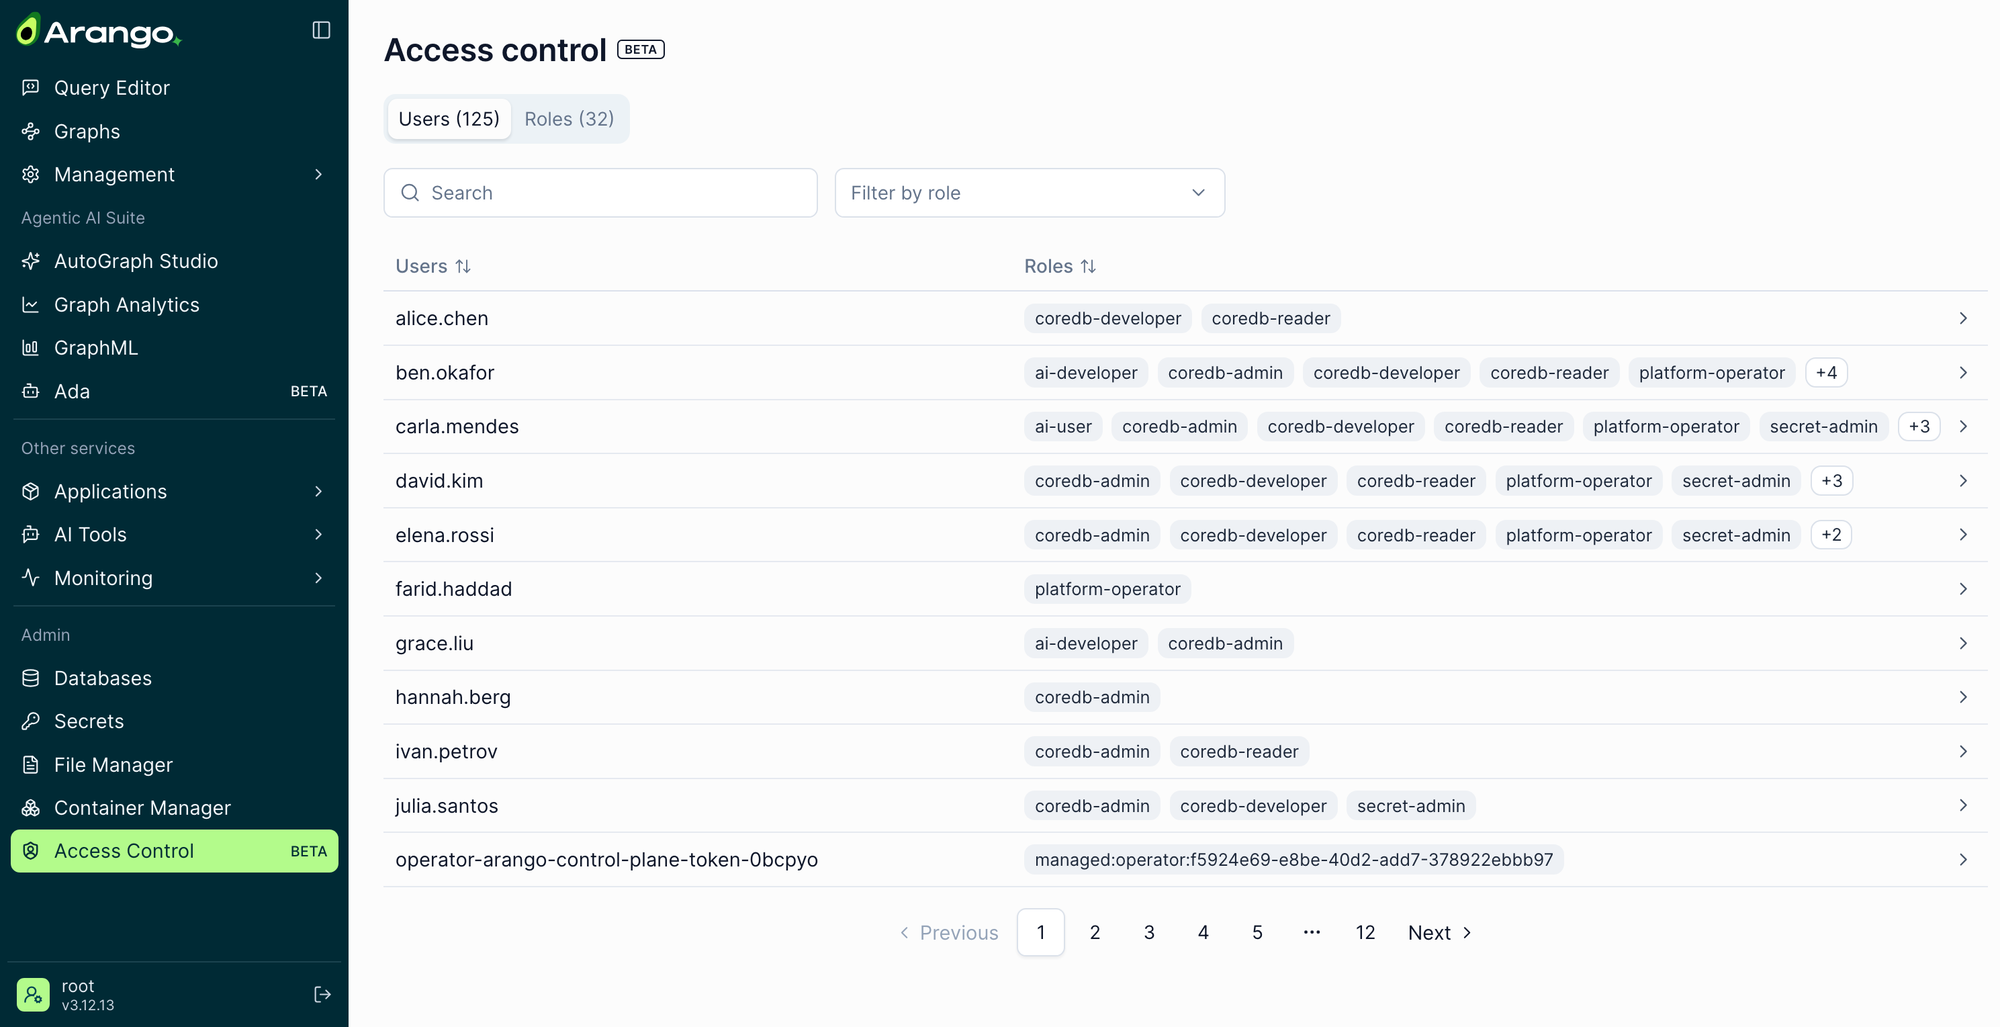
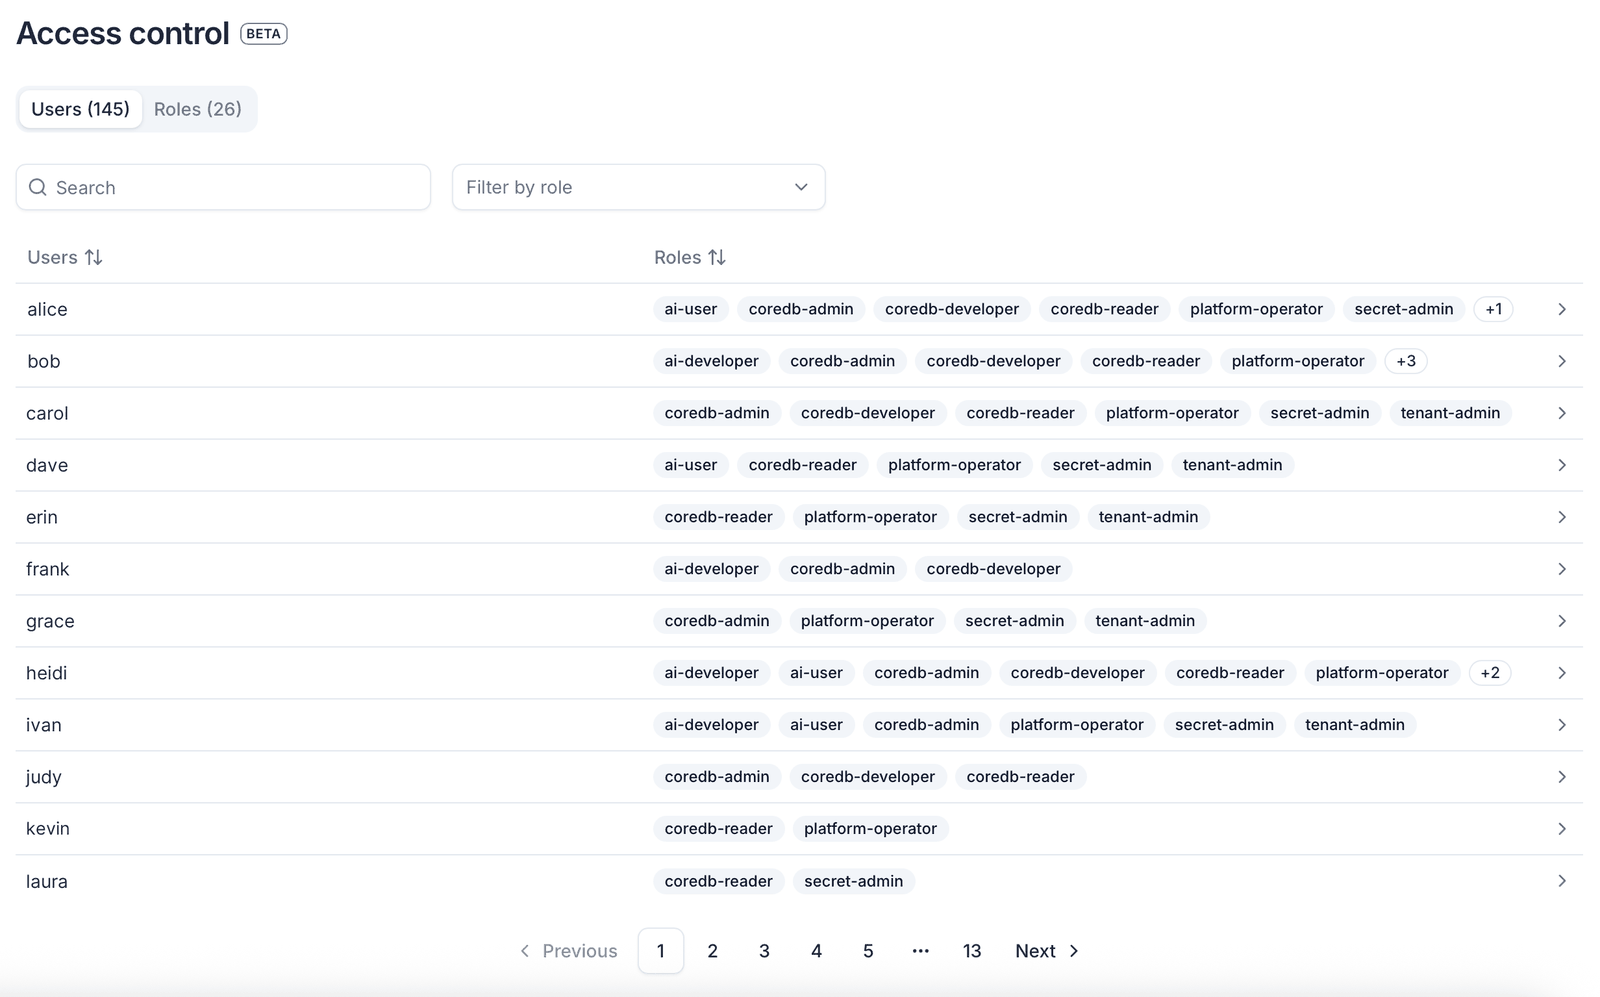
Update RBAC web interface docs and screenshots from the live UI
Replace the mockup screenshots with ones from the running web interface,
add images for the role editor, custom scopes, and the Discard changes
prompt, and align the text with the UI: custom (read-only) scopes,
super-admin and operator roles, role panel details, validation errors,
and the delete confirmation.

diff --git a/site/content/contextual-data-platform/access-control/rbac.md b/site/content/contextual-data-platform/access-control/rbac.md
@@ -403,7 +403,7 @@ that user as chips:
 ![The Users tab of the Access control page listing users with their roles as chips, a search field, a role filter, and page controls](../../images/rbac-ui-users-tab.png)
 
 - A user with no roles shows a hyphen (`-`).
-- The `root` user shows the reserved `super-admin` role.
+- The `root` user shows the reserved `super-admin` role as a single chip.
 - If not all chips fit, the row shows as many as it can, followed by a chip
   with the number of remaining roles, for example `+3`. Hover over this chip
   to see the remaining roles.
@@ -421,9 +421,11 @@ The panel is headed by the user name and an **Assign role** button. Below a
 **Search** field for role names, it lists one card per assigned role. Each card
 has a pencil icon that opens the role for editing, and a chevron that expands
 the card to show the scope of the assignment, grouped by resource type and
-database, or `Everything` if the assignment is not narrowed.
+database, `Everything` if the assignment is not narrowed, or `Custom scope` if
+the scope was set outside the web interface. See
+[Custom scopes](#custom-scopes).
 
-![The details panel of a user with an Assign role button, a field for searching roles, and one card per role with a pencil icon and a chevron](../../images/rbac-ui-user-panel.png)
+![The details panel of the user alice with an Assign role button, a field for searching roles, and one card per role with a pencil icon and a chevron, the ai-user card expanded to show Custom scope](../../images/rbac-ui-user-panel.png)
 
 If the user has no roles yet, the panel shows an empty state instead, headed
 *No roles assigned to this user*. It points out that the user has no access
@@ -477,7 +479,7 @@ The steps are the same for every role. Only the scope differs, see
 2. Select **Assign role**. The **Assign role to `<user>`** dialog opens. Its
    field already contains the roles the user holds.
 
-   ![The Assign role dialog with the roles that the user already holds in the role field, and the Cancel and Assign role buttons](../../images/rbac-ui-assign-role-dialog.png)
+   ![The Assign role to alice dialog with the roles that the user already holds in the role field, and the Cancel and Assign role buttons](../../images/rbac-ui-assign-role-dialog.png)
 3. Search for and pick one or more roles to add, then select **Assign role**.
    The **Assign roles to `<user>`** dialog opens, with the new roles added to
    the **Assigned** list on the left, together with any roles the user
@@ -499,6 +501,8 @@ have not scoped yet.
 changes, a **Discard changes?** prompt appears first. Select
 **Discard changes** to close the dialog, or **Keep editing** to return to it.
 The same applies if you close the dialog with the close icon or the Escape key.
+
+![The Discard changes? prompt saying that the changes to alice's roles haven't been saved and will be lost, with the Keep editing and Discard changes buttons](../../images/rbac-ui-discard-changes.png)
 {{< /tab >}}
 
 {{< tab "cURL" >}}
@@ -556,11 +560,17 @@ HTTP API endpoint for assigning a user to a role.
 With a role selected in the **Assigned** list, the right-hand side of the
 dialog shows what that assignment can be narrowed to.
 
+![The Edit roles for alice dialog with the Assigned list on the left and the coredb-admin role on the right, set to Everything, with the Visual / JSON toggle on JSON](../../images/rbac-ui-assign-roles-dialog.png)
+
 Some roles cannot be narrowed at all. For those, the panel shows the notice
 *This role applies everywhere. It cannot be narrowed to specific resources
 because it's a platform-level role.*
 and the assignment covers all resources. This is the case for the
-`managed:operator:<uuid>`, `tenant-admin`, and `platform-operator` roles.
+`tenant-admin` and `platform-operator` roles, and for the `super-admin` role
+of the `root` user. You cannot remove `super-admin`, so its entry in the
+**Assigned** list has no trash icon. The `managed:operator:<uuid>`
+roles get their scope from the Kubernetes operator, so they show as a
+[custom scope](#custom-scopes).
 
 For a role that supports scoping, neither option is selected when you add the
 role. Choose between:
@@ -571,7 +581,8 @@ role. Choose between:
   defined as one or more scopes.
 
 Selecting **Specific resources** adds a first scope card. To add more, use
-the **Add scope** button next to the role name. A new card is titled
+the **Add scope** button next to the role name. The button is disabled while
+**Everything** is selected. A new card is titled
 **New scope** until you choose a **Resource type**, after which it takes the
 name of that type. Which resource types are available depends on the role.
 Each resource type except `Name pattern (advanced)` can only be added once
@@ -772,10 +783,11 @@ The dialog does not let you save incomplete assignments. When you select
 - A scope card without a resource type is titled **Empty scope**, outlined
   in red, and shows **Resource type required** with the hint
   *Pick a resource type, or remove this scope.*
-- A scope card without any selected resource is outlined in red and shows the
-  inline error *Add resources to this scope, or remove it.*
+- A scope card without any selected resource is outlined in red, gets a
+  warning icon in its header, and shows the error **Empty scope** with the hint
+  *Add resources to this scope, or remove it.*
 
-  ![A Collections scope card outlined in red with the error Add resources to this scope, or remove it, above the empty collection picker](../../images/rbac-ui-validation.png)
+  ![The Edit roles for alice dialog with a Collections scope card of the coredb-developer role outlined in red, showing the error Empty scope above the empty collection picker, and a warning icon next to coredb-developer in the Assigned list](../../images/rbac-ui-validation.png)
 
 If you delete all scope cards of a role, the role is flagged right away as
 **No scope yet**, with the hint *Add a scope with resources, or remove this
@@ -797,6 +809,33 @@ check whether a scope is useful, however:
 
 {{< /tabs >}}
 
+### Custom scopes
+
+{{< tabs "interfaces" >}}
+
+{{< tab "Web interface" >}}
+A scope that was set outside the web interface, for example with the
+HTTP API or by the Kubernetes operator, may not fit the options of the dialog.
+The dialog then shows the role as `Custom scope` in the **Assigned** list, and
+the notice *This scope was set outside the UI and doesn't fit the editor, so
+it's shown read-only. Remove the role to replace it.* The scope is only shown
+as JSON, and you cannot edit it in the dialog.
+
+![The Edit roles for alice dialog with the ai-user role selected, showing the read-only notice and the custom scope as JSON](../../images/rbac-ui-custom-scope.png)
+
+To change a custom scope in the web interface, remove the role with the trash
+icon, save, and assign the role again. This replaces the scope with one that
+you define in the dialog.
+{{< /tab >}}
+
+{{< tab "cURL" >}}
+The HTTP API accepts any scope, whether the web interface can show it in the
+dialog or not. To change a custom scope, replace it as a whole, as described
+in [Edit or remove an assignment](#edit-or-remove-an-assignment).
+{{< /tab >}}
+
+{{< /tabs >}}
+
 ## Edit or remove an assignment
 
 {{< tabs "interfaces" >}}
@@ -806,15 +845,18 @@ Open the details panel of a user and select the pencil icon on a role card.
 The same dialog reopens as **Edit roles for `<user>`**, where you can:
 
 - Add further roles with the **Add role** combobox.
-- Change the scope of an assignment, where the role supports it.
+- Change the scope of an assignment, where the role supports it. A
+  [custom scope](#custom-scopes) is read-only.
 - Remove a role from the user with the trash icon on its entry in the
   **Assigned** list. The role is removed from the list right away. If the user
   held the role before you opened the dialog, a confirmation appears when you
-  select **Save changes**. Confirm it to remove the role and all its scopes.
+  select **Save changes**, for example *Delete coredb-developer?*, stating that
+  the user loses this role and all of its scopes. If you removed several roles,
+  it asks *Delete 2 roles?* and lists them. Confirm it to remove the roles.
   The button reads **Delete role** or **Delete roles**, or
   **Delete role and save changes** if you made other changes, too.
 
-  ![The confirmation dialog asking Do you want to delete this role, with the Cancel and Delete role buttons](../../images/rbac-ui-delete-role-confirm.png)
+  ![The confirmation dialog Delete coredb-developer? saying that alice loses this role and all of its scopes, with the Cancel and Delete role buttons](../../images/rbac-ui-delete-role-confirm.png)
 
 If you remove every role, the dialog shows *No roles assigned to this user*
 with an **Assign role** button to start over.
@@ -870,11 +912,17 @@ users.
 Select a row to open the details panel for that role. It is headed by the role
 name, a description of the role, and an **Assign user** button. Below a
 **Search** field for user names, it lists one card per user that holds the
-role. The pencil icon on a user card (**Edit user's roles**) opens the
-assignment dialog for that user, and the chevron expands the card to show the
-other roles of that user.
+role, with the number of roles of that user, for example `1 role`. The pencil
+icon on a user card (**Edit user's roles**) opens the assignment dialog for
+that user, and the chevron expands the card. It then shows the role itself,
+followed by the other roles of that user under
+*Other roles assigned to this user*, or *No other roles assigned to this user*. If many users hold the role,
+the list is split into pages, with **Previous** and **Next** controls below it.
 
-![The details panel of the coredb-reader role with an Assign user button, a field for searching users, and one card per user, the first one expanded to show the other roles of that user](../../images/rbac-ui-role-panel.png)
+The panel of a `managed:operator:<uuid>` role has no description and no
+**Assign user** button.
+
+![The details panel of the coredb-reader role with its description, an Assign user button, a field for searching users, and one card per user with the number of roles of that user, followed by page controls](../../images/rbac-ui-role-panel.png)
 {{< /tab >}}
 
 {{< tab "cURL" >}}
